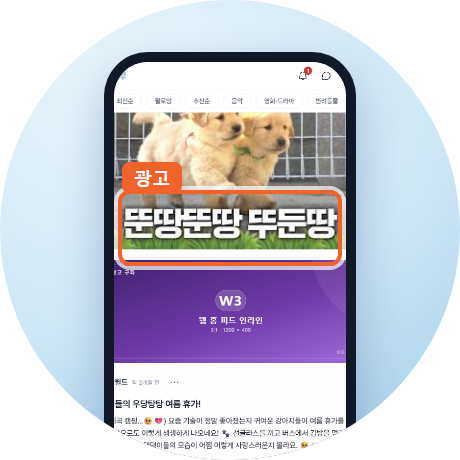
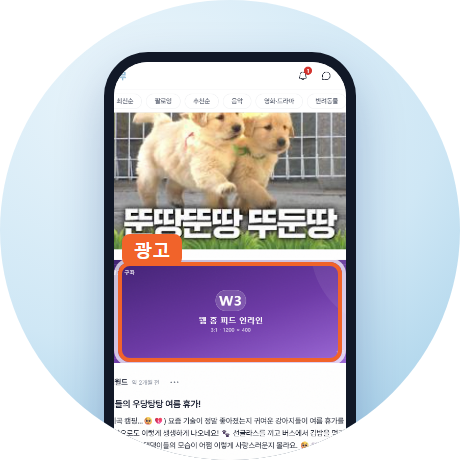
3p 인사이트 카드 1장 배치로 변경, 7p 일러스트 광고 박스 위치 보정
Claude-Session: https://claude.ai/code/session_0133toKDqgPSMfCoEuLWeeQS

Changed region(s): [[0.2435, 0.3348, 0.7609, 0.7913]]

diff --git a/ads.html b/ads.html
@@ -389,13 +389,14 @@ body { font-family: "Pretendard Variable", Pretendard, -apple-system, BlinkMacSy
 <section class="slide" id="slide-3">
   <div class="sec-label"><b>01</b>TubeLuLu 매체 소개</div>
   <div class="slide-body">
-    <div style="display:grid;grid-template-columns:1fr 1.2fr;gap:50px;align-items:center">
+    <div style="display:grid;grid-template-columns:1fr auto 1.05fr;gap:36px;align-items:center">
       <div class="a-left d1">
         <div class="page-title" style="max-width:none"><span class="wm"><span class="t">Tube</span><span class="l">LuLu</span></span><br><span class="hl">매체 소개</span></div>
         <div style="margin-top:10px"><span class="pill sky">큐레이터의 해석을 읽는 큐레이션 서비스</span> <span class="pill warm" style="margin-left:4px">포커 집중</span></div>
         <p class="page-desc" style="margin-top:14px">누구나 큐레이터가 되어 영상에 해석을 얹고, 팬은 그 해석을 읽고 직접 묻습니다.<br>지금은 큐레이터와 인사이트가 <strong>포커에 집중</strong>되어 있습니다.<br><strong>월 10만 명</strong>이 쓰는 서비스입니다. 포커를 보는 사람이 아니라, <strong>포커를 묻는 사람</strong>이 모이는 곳입니다.</p>
-        <div style="width:300px;height:150px;margin-top:26px;display:flex;gap:8px;padding:8px;border-radius:14px;background:linear-gradient(135deg,#EAF5FB,#CFE7F5)"><div style="flex:1;height:100%;border-radius:10px;overflow:hidden;border:1px solid var(--border);background:#fff;box-shadow:0 6px 16px rgba(9,52,122,.12)"><img src="images/insight-hand-m.png" alt="" style="display:block;width:100%;height:100%;object-fit:cover;object-position:center top"></div><div style="flex:1;height:100%;border-radius:10px;overflow:hidden;border:1px solid var(--border);background:#fff;box-shadow:0 6px 16px rgba(9,52,122,.12)"><img src="images/insight-tournament-m.png" alt="" style="display:block;width:100%;height:100%;object-fit:cover;object-position:center top"></div><div style="flex:1;height:100%;border-radius:10px;overflow:hidden;border:1px solid var(--border);background:#fff;box-shadow:0 6px 16px rgba(9,52,122,.12)"><img src="images/insight-pub-m.png" alt="" style="display:block;width:100%;height:100%;object-fit:cover;object-position:center top"></div></div>
+        
       </div>
+      <div class="a-up d2" style="width:210px;height:273px;border-radius:14px;overflow:hidden;border:1px solid var(--border);box-shadow:0 14px 30px rgba(9,52,122,.16);background:#fff"><img src="images/insight-hand-m.png" alt="포커 인사이트 카드" style="display:block;width:100%;height:100%;object-fit:cover;object-position:center top"></div>
       <div class="stat-grid a-right d2">
         <div class="stat-tile"><span class="stat-tag">월간 이용자 (MAU)</span><div class="stat-num">10<small>만</small></div></div>
         <div class="stat-tile"><span class="stat-tag">주요 시장</span><div class="stat-num" style="font-size:30px">국내</div></div>
